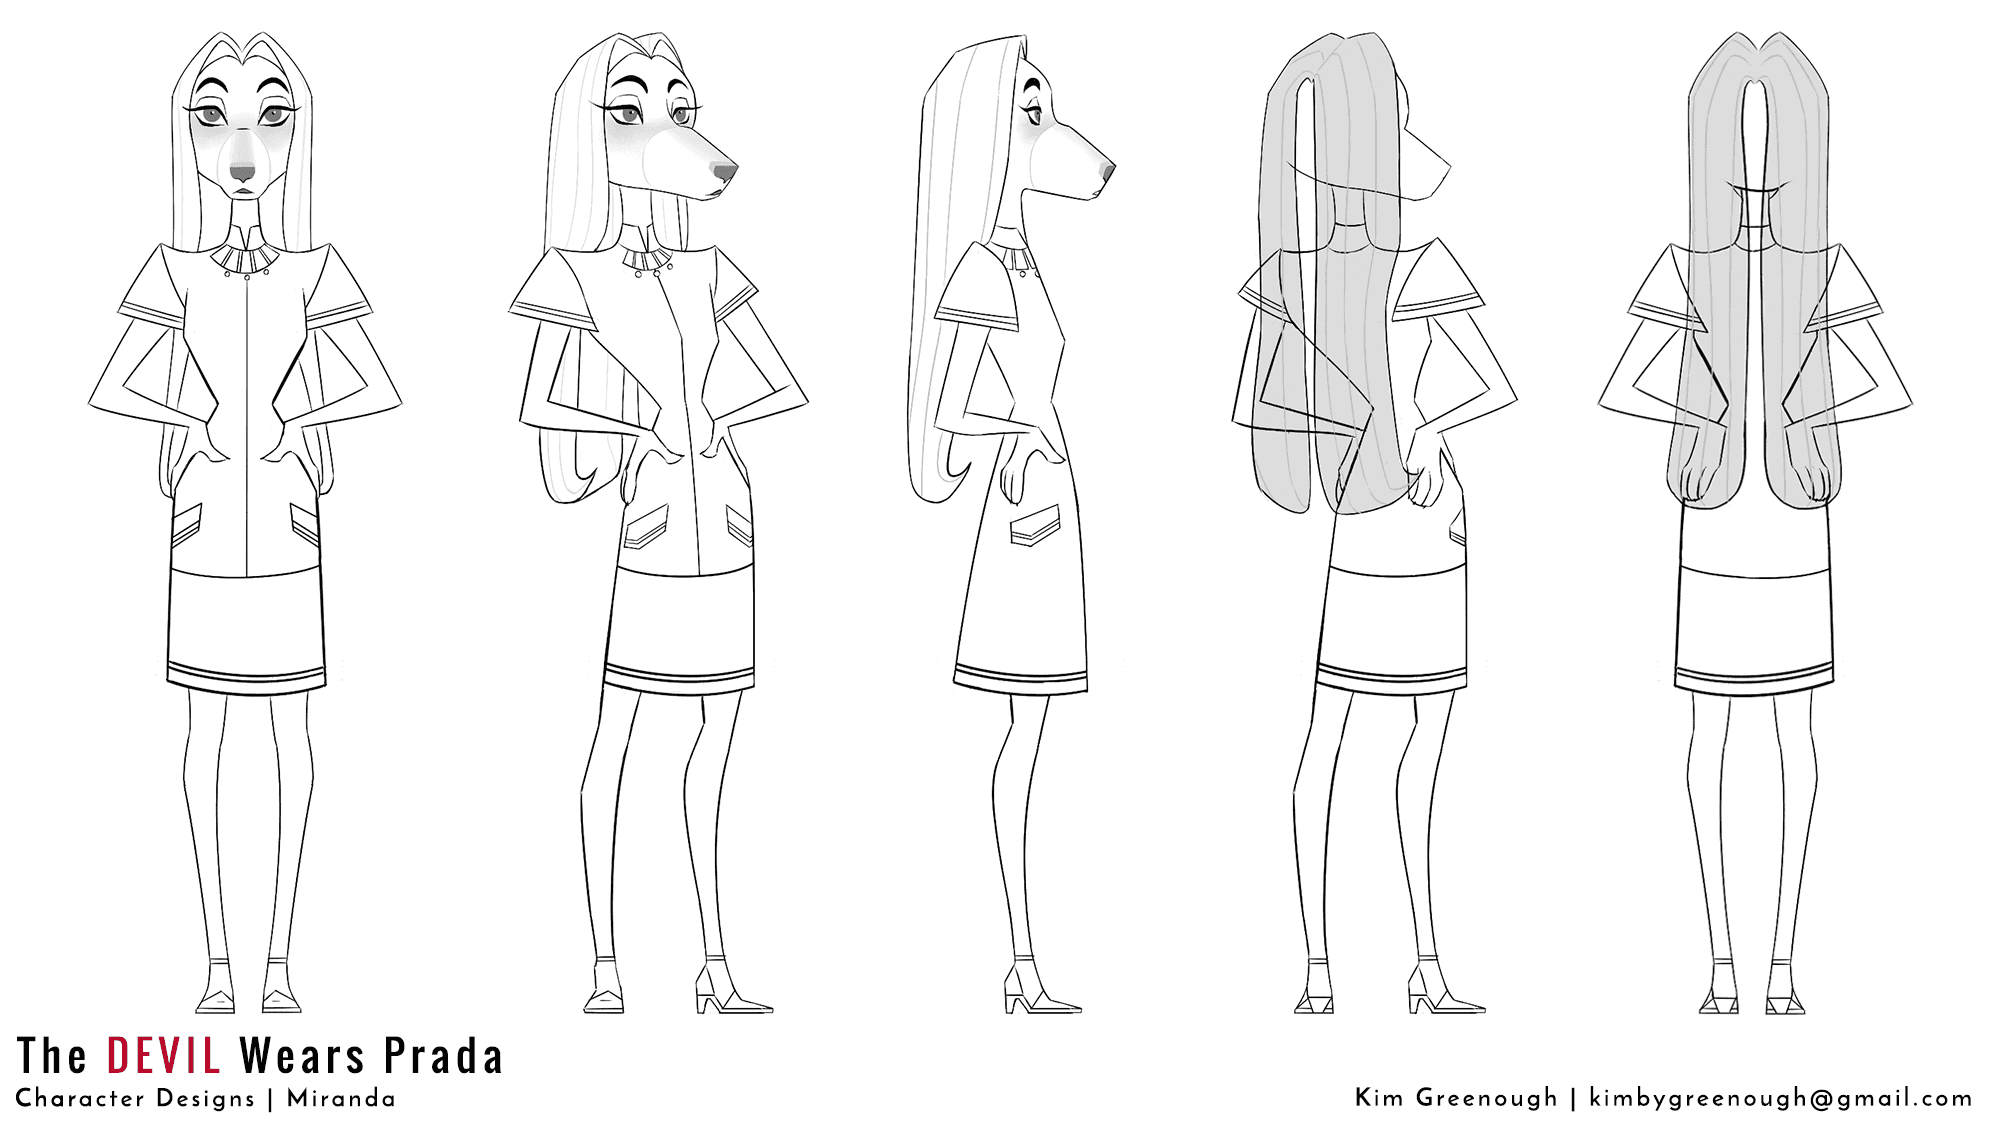
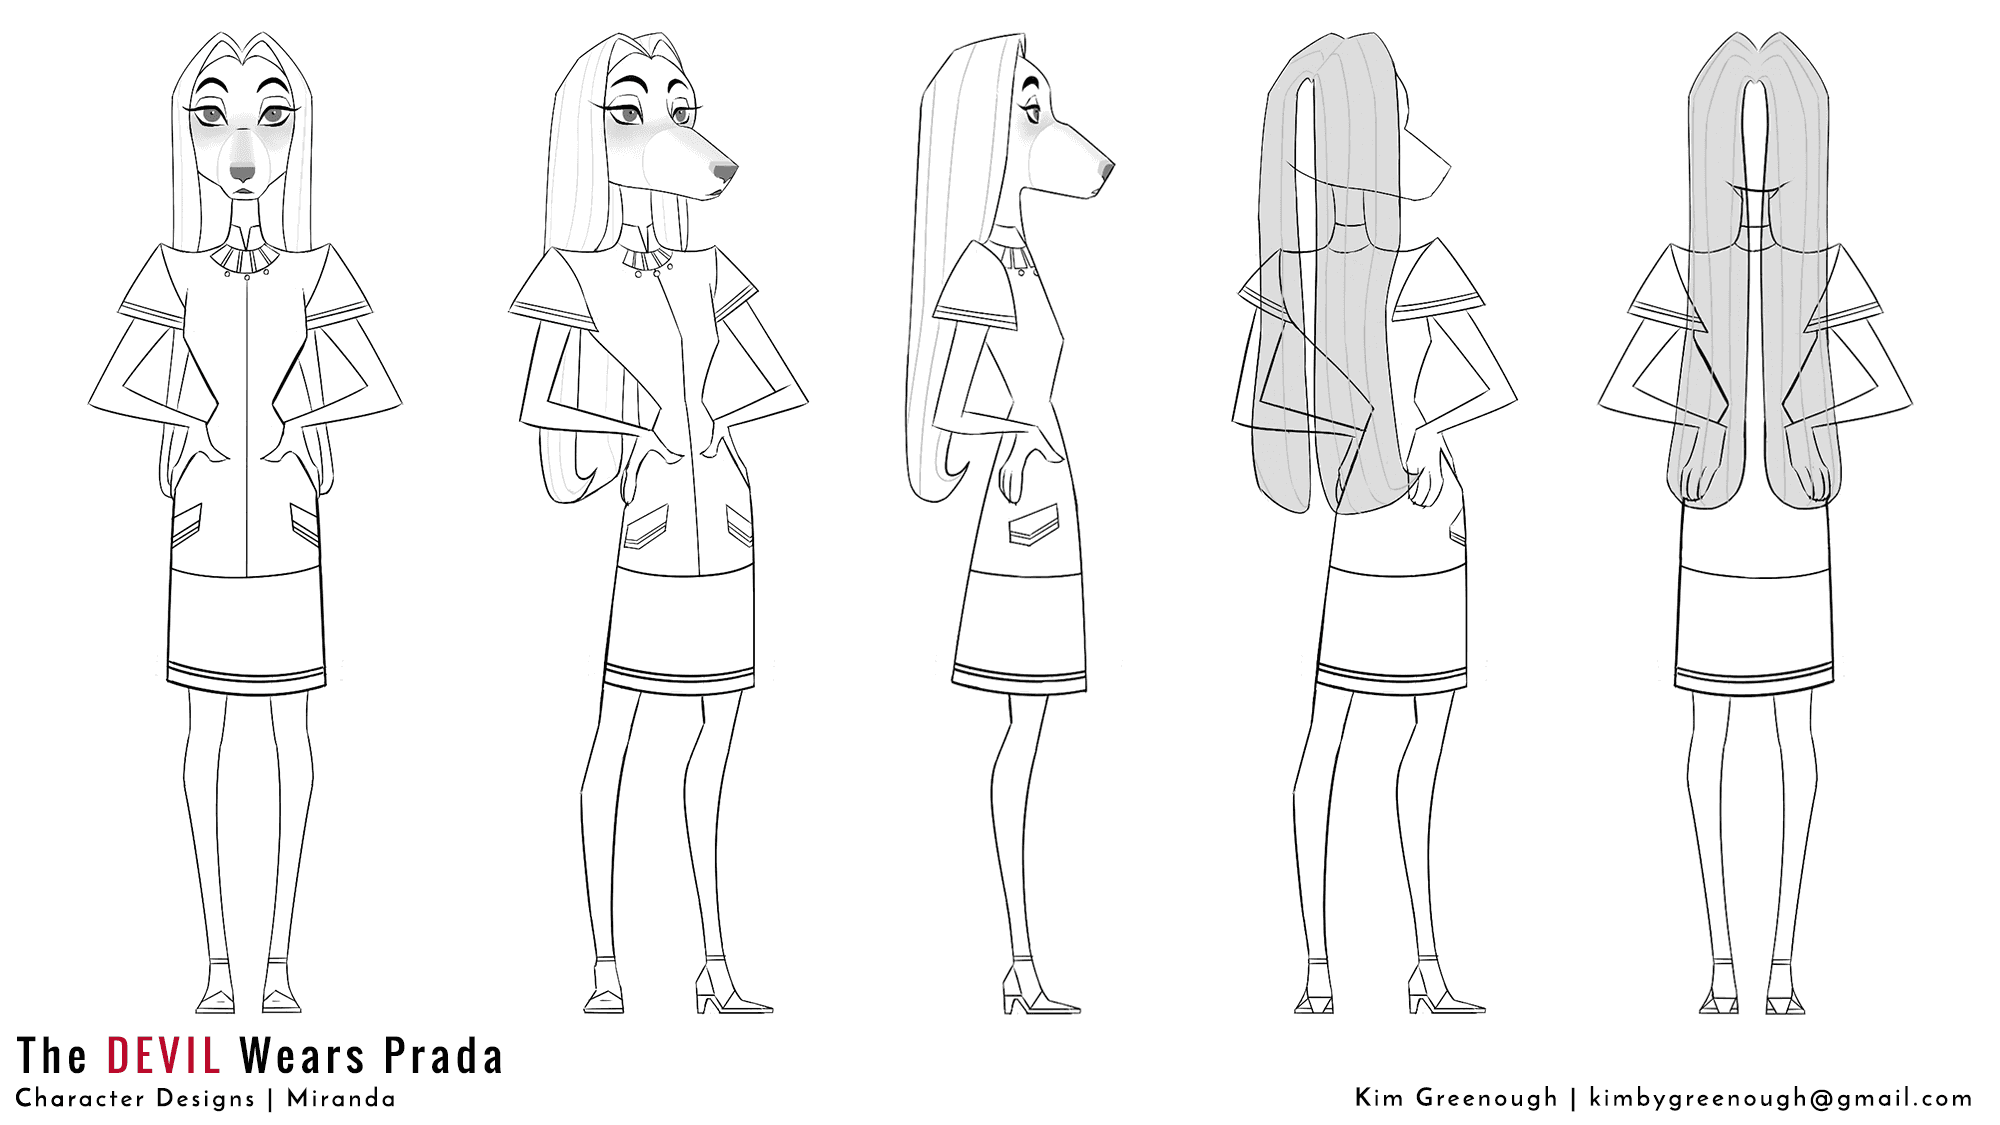
dwp fixees and action sheet

Changed region(s): [[0.434, 0.0311, 0.558, 0.4978], [0.496, 0.5911, 0.558, 0.9022], [0.465, 0.4978, 0.496, 0.5289]]

diff --git a/src/pages/tv/tv.component.js b/src/pages/tv/tv.component.js
@@ -13,7 +13,8 @@ function Tv() {
         [GALLERY_PATH + "DWP_01.png", GALLERY_PATH + "DWP_02.png"],
         [GALLERY_PATH + "DWP_03.png", GALLERY_PATH + "DWP_04.png"],
         [GALLERY_PATH + "DWP_05.png", GALLERY_PATH + "DWP_06.png"],
-        [GALLERY_PATH + "DWP_07.png", GALLERY_PATH + "DWP_08.png"]
+        [GALLERY_PATH + "DWP_07.png", GALLERY_PATH + "DWP_08.png"],
+        [GALLERY_PATH + "DWP_09.png"]
       ]} />
       <br />
       <br />
